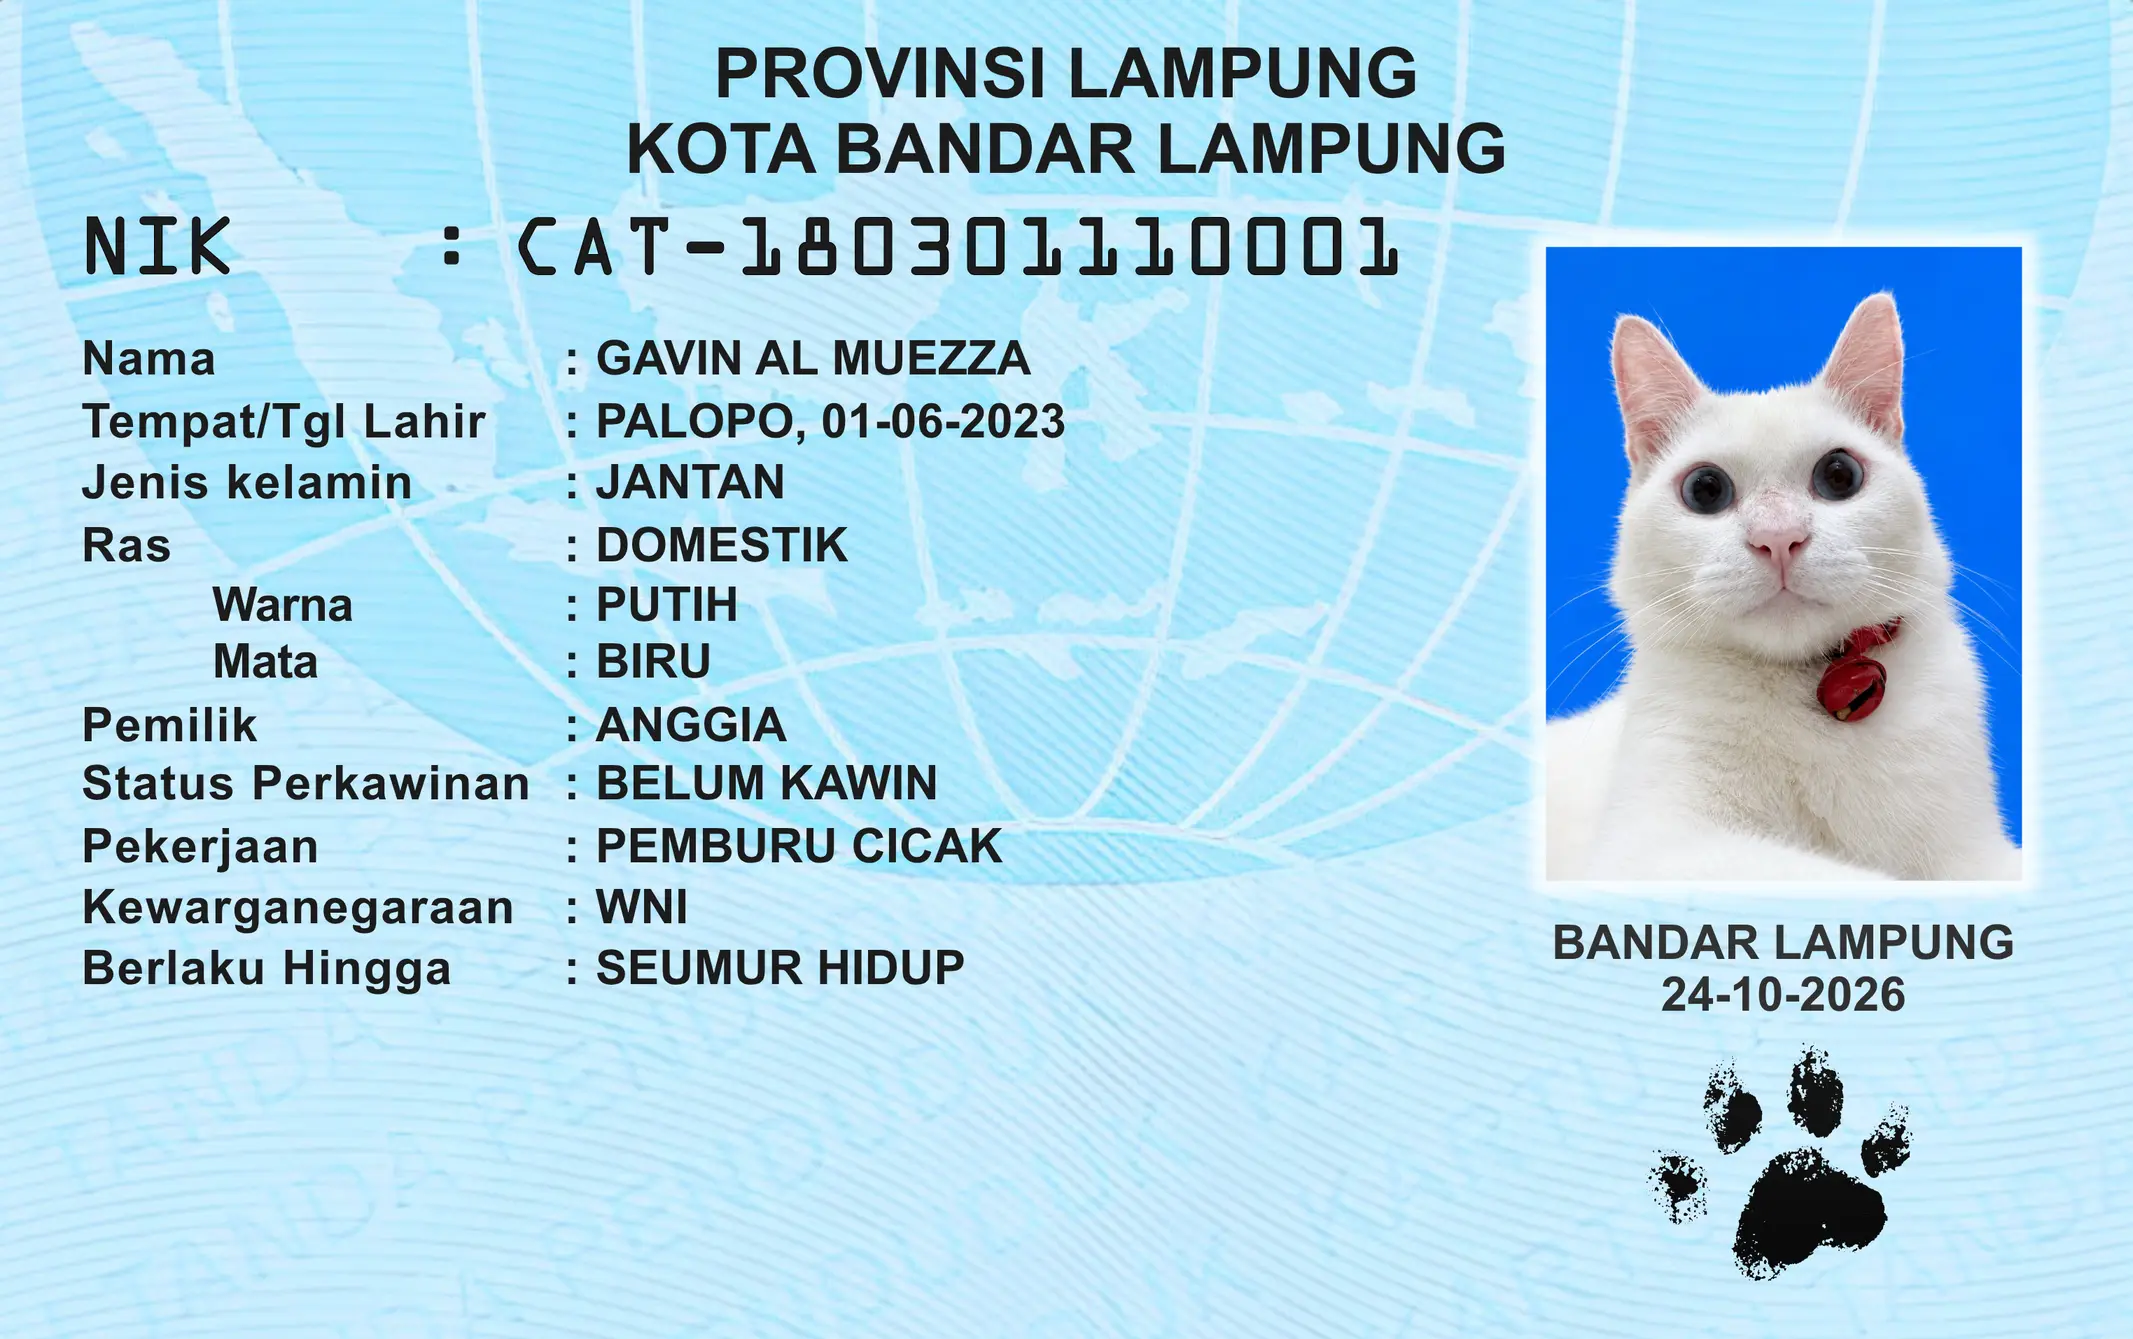
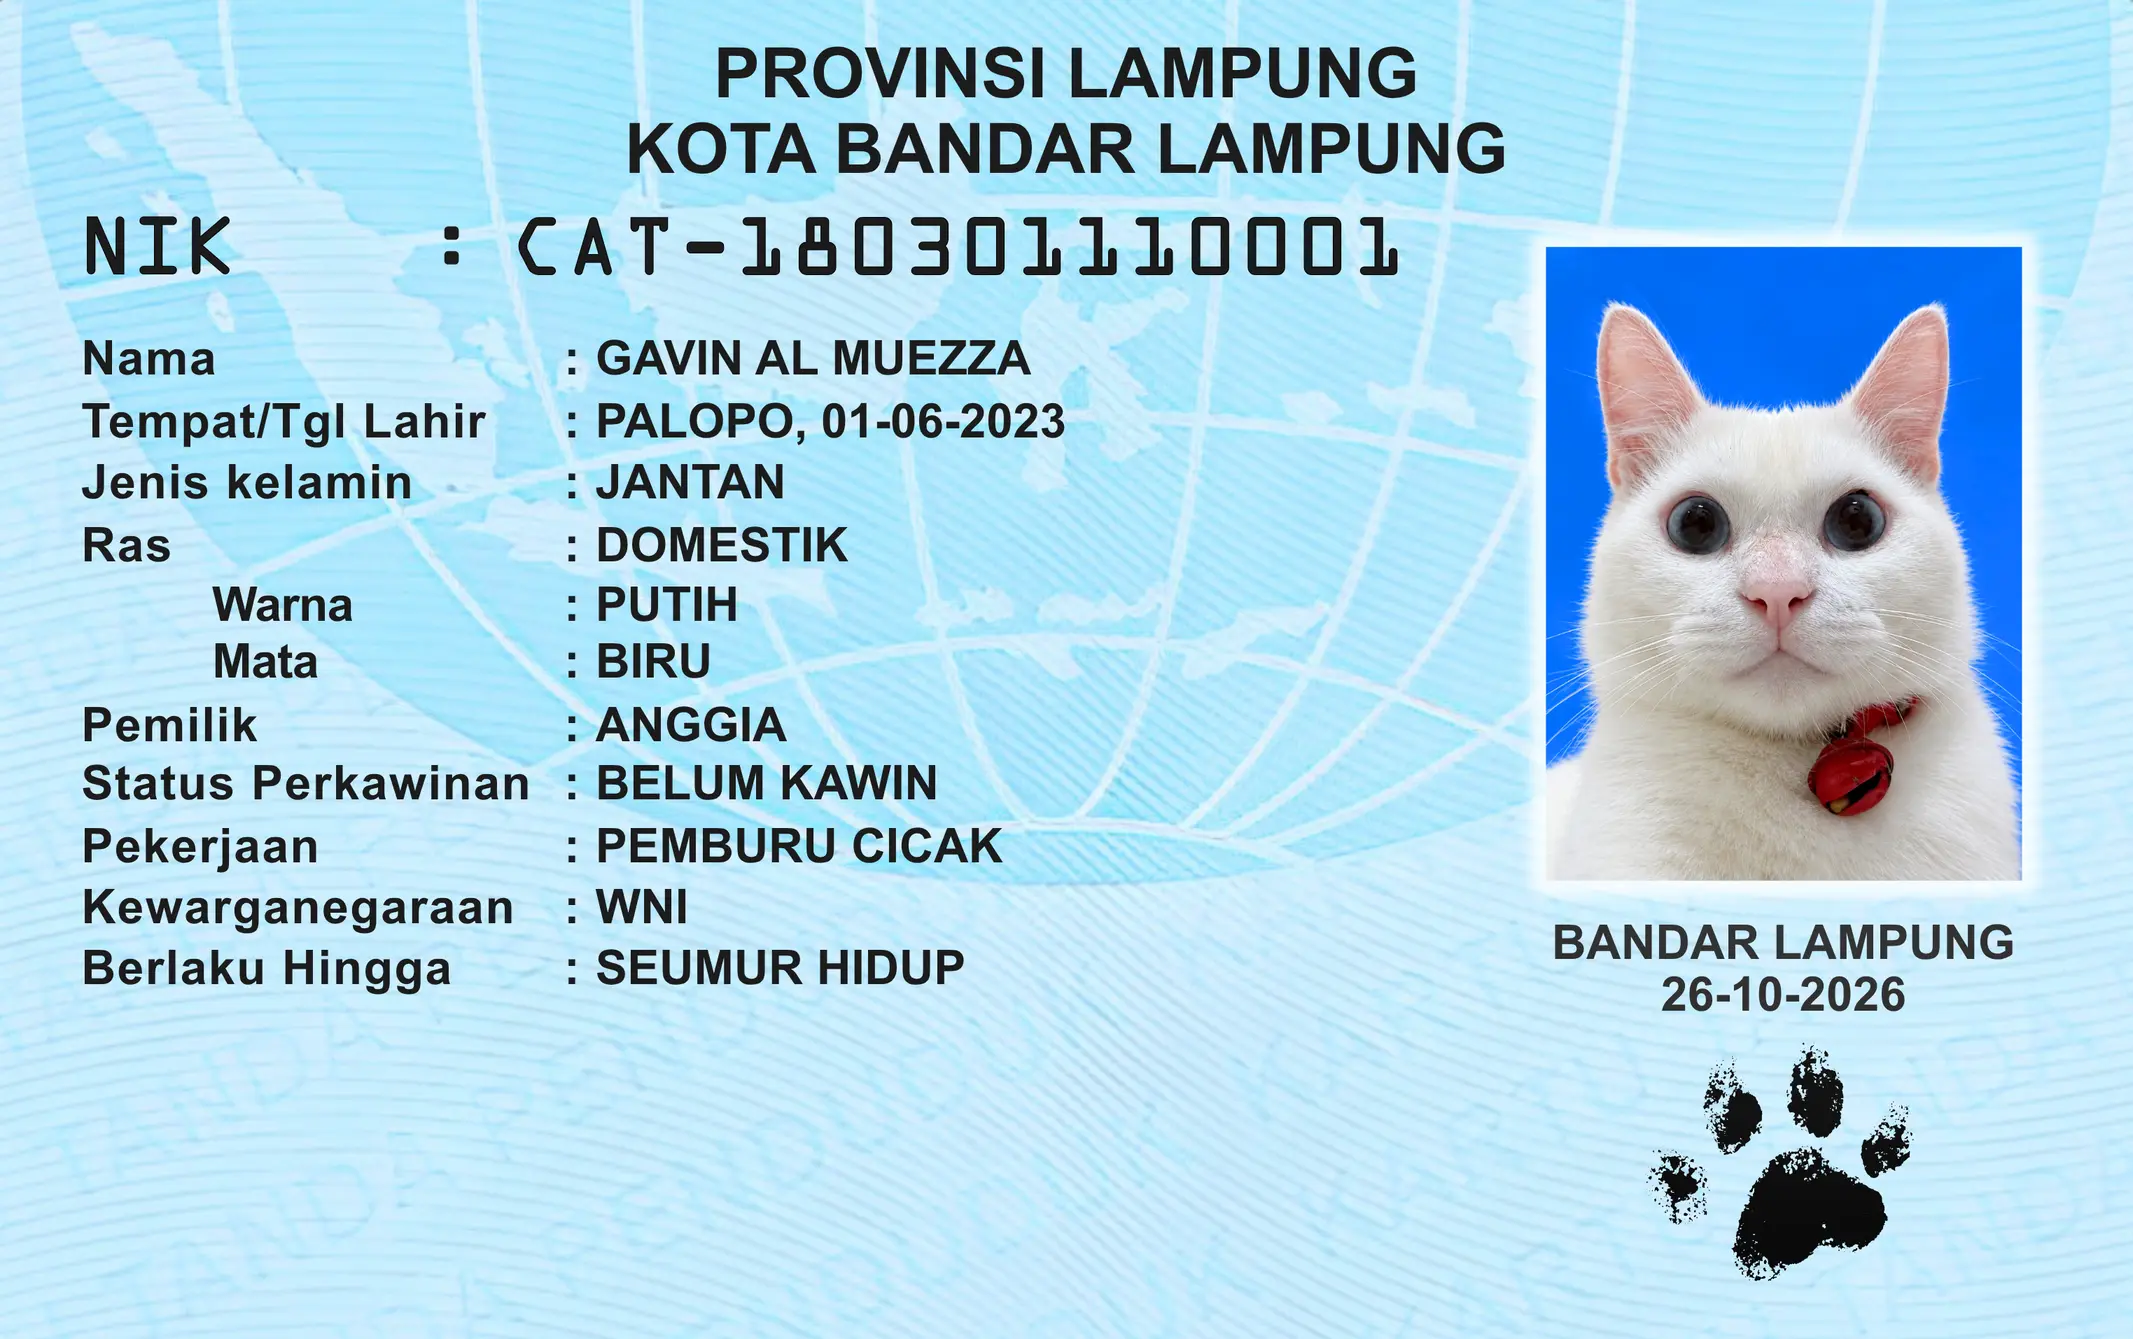
updt

Changed region(s): [[0.7117, 0.2143, 0.9592, 0.6736], [0.7736, 0.7349, 0.8045, 0.7655]]

diff --git a/index.html b/index.html
@@ -49,6 +49,10 @@
         </a>
     </div>
 
+    <footer class="fixed bottom-3 left-0 w-full px-4 text-center text-xs text-slate-500">
+        Created by <a href="https://klynecreative.biz.id" target="_blank" rel="noopener noreferrer" class="font-semibold text-slate-600 underline underline-offset-2 hover:text-slate-800">Klyne Creative</a>
+    </footer>
+
     <!-- Script Logika -->
     <script>
         document.addEventListener("DOMContentLoaded", () => {
